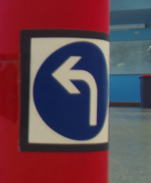
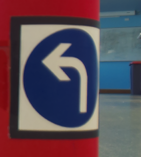
Only tc12 and 2 signs which are cropped to the side in original image are mislabelled therefore this is better than the last commit

diff --git a/ass2/detection/extract_sign.py b/ass2/detection/extract_sign.py
@@ -269,8 +269,67 @@ def extract_sign_from_cylinder(
 
     # Crop the final sign region
     sign_crop = cylinder_crop[sy: sy + sh, sx: sx + sw]
+    sign_crop = tighten_sign_crop(sign_crop, method)
 
     return sign_crop, method, bw_mask, (sx, sy, sw, sh)
+
+
+# --- tighten_sign_crop -----------------------------------------------------
+# Trim oversized blue-based crops so the classifier sees mostly the sign.
+def tighten_sign_crop(sign_crop: np.ndarray | None, method: str) -> np.ndarray | None:
+    if sign_crop is None or sign_crop.size == 0 or method != "blue":
+        return sign_crop
+
+    # Keep tiny distant signs as-is; only tighten obviously oversized blue crops.
+    if max(sign_crop.shape[:2]) < 90:
+        return sign_crop
+
+    hsv = cv2.cvtColor(sign_crop, cv2.COLOR_BGR2HSV)
+    strict_blue_mask = cv2.inRange(
+        hsv,
+        np.array([100, 120, 40], dtype=np.uint8),
+        np.array([132, 255, 255], dtype=np.uint8),
+    )
+    strict_blue_mask = cv2.morphologyEx(
+        strict_blue_mask, cv2.MORPH_OPEN, np.ones((3, 3), np.uint8)
+    )
+    strict_blue_mask = cv2.morphologyEx(
+        strict_blue_mask, cv2.MORPH_CLOSE, np.ones((5, 5), np.uint8)
+    )
+
+    contours, _ = cv2.findContours(
+        strict_blue_mask, cv2.RETR_EXTERNAL, cv2.CHAIN_APPROX_SIMPLE
+    )
+    if not contours:
+        return sign_crop
+
+    best_contour = max(contours, key=cv2.contourArea)
+    x, y, w, h = cv2.boundingRect(best_contour)
+    if w <= 0 or h <= 0:
+        return sign_crop
+
+    # If the strict-blue refinement collapses to a tiny fragment, keep the
+    # original blue crop instead of over-trimming it.
+    if (w * h) < 0.02 * (sign_crop.shape[0] * sign_crop.shape[1]):
+        return sign_crop
+
+    side = int(round(max(w, h) * (1.8 if max(w, h) < 20 else 1.45)))
+    center_x = x + w / 2.0
+    center_y = y + h / 2.0
+
+    crop_x0 = max(0, int(round(center_x - side / 2.0)))
+    crop_y0 = max(0, int(round(center_y - side / 2.0)))
+    crop_x1 = min(sign_crop.shape[1], crop_x0 + side)
+    crop_y1 = min(sign_crop.shape[0], crop_y0 + side)
+
+    if crop_x1 <= crop_x0 or crop_y1 <= crop_y0:
+        return sign_crop
+
+    tightened_crop = sign_crop[crop_y0:crop_y1, crop_x0:crop_x1]
+    if tightened_crop.size == 0:
+        return sign_crop
+
+    return tightened_crop
 
 
 # --- safe_crop -------------------------------------------------------------
